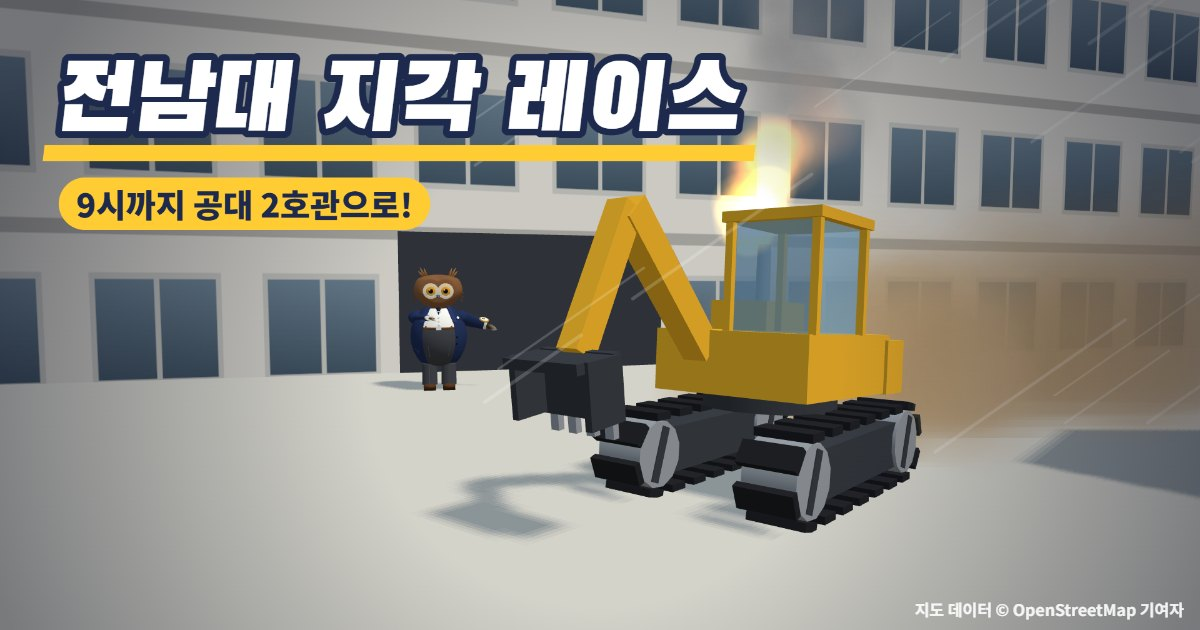
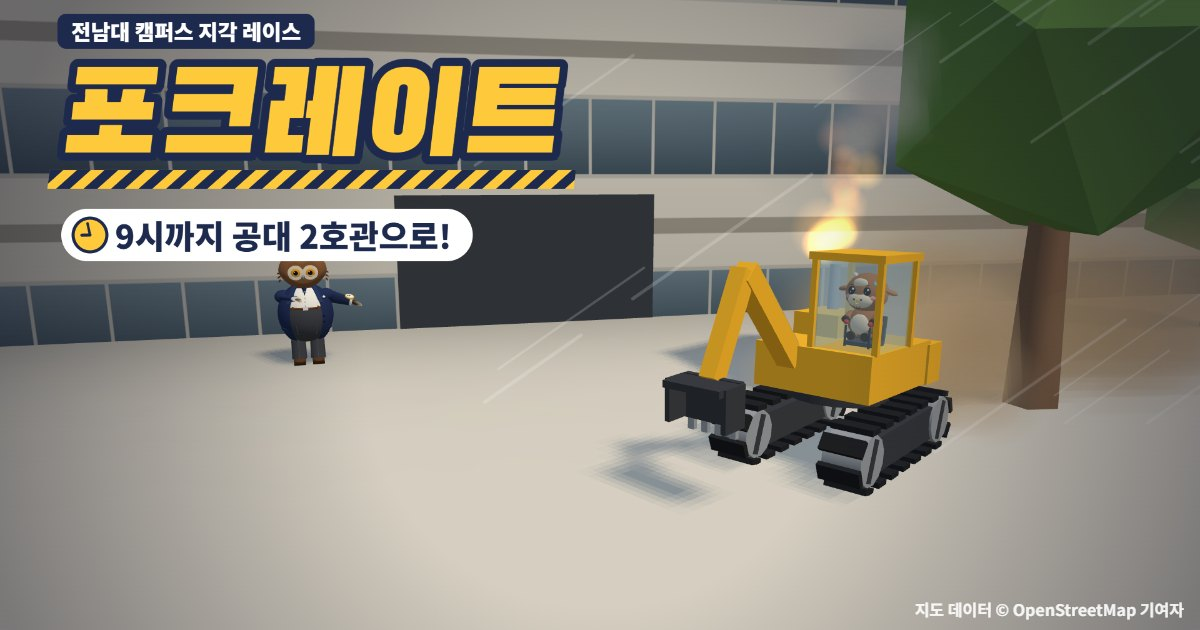
밤샘 6: 이름 포크레이트, 새 키 아트와 공유 카드

diff --git a/index.html b/index.html
@@ -3,43 +3,43 @@
 <head>
   <meta charset="utf-8">
   <meta name="viewport" content="width=device-width, initial-scale=1">
-  <title>전남대 지각 레이스</title>
+  <title>포크레이트 — 전남대 지각 레이스</title>
   <!-- 공유 카드 (메신저·SNS 미리보기). 이미지는 docs/keyart/render.html로 만든 1200×630 -->
-  <meta name="description" content="전남대 광주캠퍼스를 3D로 옮긴 브라우저 게임. 미니 굴착기로 미션을 끝내고 9시까지 공대 2호관에 도착하세요!">
+  <meta name="description" content="포크레이트(포크레인 + late): 전남대 캠퍼스를 굴착기로 달리는 지각 레이스. 미션을 끝내고 9시까지 공대 2호관으로!">
   <meta property="og:type" content="website">
-  <meta property="og:title" content="전남대 지각 레이스">
-  <meta property="og:description" content="전남대 광주캠퍼스를 3D로 옮긴 브라우저 게임. 미니 굴착기로 미션을 끝내고 9시까지 공대 2호관에 도착하세요!">
+  <meta property="og:title" content="포크레이트 — 9시까지 공대 2호관으로!">
+  <meta property="og:description" content="전남대 캠퍼스를 굴착기로 달리는 지각 레이스. 전남대 광주캠퍼스를 3D로 옮긴 브라우저 게임에서 미니 굴착기로 미션을 끝내고 9시까지 공대 2호관에 도착하세요!">
   <meta property="og:url" content="https://junyeong1810.github.io/jnu-late-race/">
   <meta property="og:image" content="https://junyeong1810.github.io/jnu-late-race/assets/img/og-image.jpg">
   <meta property="og:image:width" content="1200">
   <meta property="og:image:height" content="630">
-  <meta property="og:image:alt" content="미니 굴착기가 부스터를 켜고 돌진하고, 뒤에서 교수님이 손목을 가리키는 장면">
+  <meta property="og:image:alt" content="포크레이트: 긴장한 황소 학생이 탄 미니 굴착기가 부스터를 켜고 돌진하고, 뒤에서 교수님이 손목을 가리키는 장면">
   <meta name="twitter:card" content="summary_large_image">
-  <meta name="twitter:title" content="전남대 지각 레이스">
+  <meta name="twitter:title" content="포크레이트 — 9시까지 공대 2호관으로!">
   <meta name="twitter:image" content="https://junyeong1810.github.io/jnu-late-race/assets/img/og-image.jpg">
-  <link rel="stylesheet" href="assets/css/style.css?v=80">
+  <link rel="stylesheet" href="assets/css/style.css?v=81">
   <script type="importmap">
   {
     "imports": {
       "three": "https://cdn.jsdelivr.net/npm/three@0.160.0/build/three.module.js",
-      "./assets/js/map.js": "./assets/js/map.js?v=80",
-      "./assets/js/landscape.js": "./assets/js/landscape.js?v=80",
-      "./assets/js/terrain.js": "./assets/js/terrain.js?v=80",
-      "./assets/js/surroundings.js": "./assets/js/surroundings.js?v=80",
-      "./assets/js/roadmarks.js": "./assets/js/roadmarks.js?v=80",
-      "./assets/js/life.js": "./assets/js/life.js?v=80",
-      "./assets/js/car.js": "./assets/js/car.js?v=80",
-      "./assets/js/driver.js": "./assets/js/driver.js?v=80",
-      "./assets/js/driver-config.js": "./assets/js/driver-config.js?v=80",
-      "./assets/js/walker.js": "./assets/js/walker.js?v=80",
-      "./assets/js/camera.js": "./assets/js/camera.js?v=80",
-      "./assets/js/hud.js": "./assets/js/hud.js?v=80",
-      "./assets/js/voice.js": "./assets/js/voice.js?v=80",
-      "./assets/js/late-mode.js": "./assets/js/late-mode.js?v=80",
-      "./assets/js/missions-data.js": "./assets/js/missions-data.js?v=80",
-      "./assets/js/dialogue-data.js": "./assets/js/dialogue-data.js?v=80",
-      "./assets/js/professor.js": "./assets/js/professor.js?v=80",
-      "./assets/js/professor-config.js": "./assets/js/professor-config.js?v=80"
+      "./assets/js/map.js": "./assets/js/map.js?v=81",
+      "./assets/js/landscape.js": "./assets/js/landscape.js?v=81",
+      "./assets/js/terrain.js": "./assets/js/terrain.js?v=81",
+      "./assets/js/surroundings.js": "./assets/js/surroundings.js?v=81",
+      "./assets/js/roadmarks.js": "./assets/js/roadmarks.js?v=81",
+      "./assets/js/life.js": "./assets/js/life.js?v=81",
+      "./assets/js/car.js": "./assets/js/car.js?v=81",
+      "./assets/js/driver.js": "./assets/js/driver.js?v=81",
+      "./assets/js/driver-config.js": "./assets/js/driver-config.js?v=81",
+      "./assets/js/walker.js": "./assets/js/walker.js?v=81",
+      "./assets/js/camera.js": "./assets/js/camera.js?v=81",
+      "./assets/js/hud.js": "./assets/js/hud.js?v=81",
+      "./assets/js/voice.js": "./assets/js/voice.js?v=81",
+      "./assets/js/late-mode.js": "./assets/js/late-mode.js?v=81",
+      "./assets/js/missions-data.js": "./assets/js/missions-data.js?v=81",
+      "./assets/js/dialogue-data.js": "./assets/js/dialogue-data.js?v=81",
+      "./assets/js/professor.js": "./assets/js/professor.js?v=81",
+      "./assets/js/professor-config.js": "./assets/js/professor-config.js?v=81"
     }
   }
   </script>
@@ -47,7 +47,7 @@
 <body>
   <div id="loading">
     <div class="ld-card">
-      <div class="ld-title">전남대 지각 레이스</div>
+      <div class="ld-title">포크레이트</div>
       <div class="ld-bar"><div class="ld-fill"></div></div>
       <div class="ld-text">캠퍼스 불러오는 중…</div>
       <div class="ld-tip"></div>
@@ -148,8 +148,9 @@
     <!-- 첫 화면 -->
     <div id="title">
       <div class="title-card panel">
-        <h1>전남대 지각 레이스</h1>
-        <p class="title-sub">미니 굴착기를 타고 캠퍼스를 달려, 9시 수업에 늦지 마세요!</p>
+        <h1>포크레이트</h1>
+        <p class="title-sub">9시까지 공대 2호관으로!</p>
+        <p class="title-desc">전남대 캠퍼스를 미니 굴착기로 달리는 지각 레이스 (포크레인 + late)</p>
         <div class="title-colors" aria-label="굴착기 색"></div>
         <div class="title-buttons">
           <button id="btn-free">자유 주행</button>
@@ -166,6 +167,7 @@
     <div id="credits" class="overlay hidden">
       <div class="dialog panel credits-card">
         <h2>크레딧</h2>
+        <p><b>포크레이트</b> — 전남대 캠퍼스를 굴착기로 달리는 지각 레이스 (포크레인 + late)</p>
         <p><b>사용한 오픈소스와 데이터</b><br>
           <a href="https://threejs.org" target="_blank" rel="noopener">three.js</a> (MIT 라이선스)<br>
           지도 데이터 © <a href="https://www.openstreetmap.org/copyright" target="_blank" rel="noopener">OpenStreetMap 기여자</a> (ODbL)<br>
@@ -187,6 +189,6 @@
     <a id="attribution" href="https://www.openstreetmap.org/copyright" target="_blank" rel="noopener">지도 데이터 © OpenStreetMap 기여자</a>
   </div>
 
-  <script type="module" src="assets/js/main.js?v=80"></script>
+  <script type="module" src="assets/js/main.js?v=81"></script>
 </body>
 </html>

diff --git a/assets/css/style.css b/assets/css/style.css
@@ -582,3 +582,6 @@ body.title #settings, body.cine #settings { display: none; }
   100% { transform: translate(28px, -64px) scale(1.1); opacity: 0; }
 }
 body.title #student-bubble, body.title #student-z, body.cine #student-bubble, body.cine #student-z { display: none; }
+
+/* 첫 화면 부제 아래 한 줄 설명 */
+.title-desc { margin: -6px 0 14px; font-size: 14px; font-weight: 600; color: #6b7385; }

diff --git a/제작로그.md b/제작로그.md
@@ -130,3 +130,4 @@
 - [night-3] 정밀 지형: 국토지리정보원 수치지도 등고선·표고점·옹벽으로 만든 5m 격자(perf의 terrain.json, 차도 범위는 길이 방향 부드럽게·폭 방향 평평하게 정리된 것)와 차도 메시 5m 간격. 굴착기는 옹벽 단차에서 높이·기울기를 부드럽게 따라감. 크레딧 지형 출처 갱신. v7보다 삼각형 −17k(차도 −36k).
 - [night-4] 노랑 항목: 횡단보도·정지선·방향 화살표·과속방지턱(흰색·노란색 두 메시), 나무 다양화(넓은 활엽수·관목·원뿔·가는 침엽수, 종류별 인스턴싱, 20면체로 가볍게), 벽 아래 음영(정점 색) + 건물 둘레 접지 그림자(바닥 그림), 셔틀버스 1~2대(굴착기·걷는 황소가 다가오면 멈춤, 주차 차량 없음). ⚙ 설정에 "가벼운 모드" 스위치. v7보다 삼각형 −13.9k(낮음), 호출 +13.
 - [night-5] 항공사진 원본(국토지리정보원 8장, data/raw/ngii/항공사진/로 옮김): 정사영상과 특징점으로 맞춘 2025년 4장으로 건물 129동(4층 이상 전부 + 3층)을 확대 조각으로 하나씩 보고, 같은 날 사진 쌍의 시차로 높이를 잼. 높이 44동(온실·창고 등 37동은 1층, 강의동 4동 등), 벽 11동(벽돌 6·흰 벽·띠창 등), 유리 온실 9동, 우진각 지붕 3동, 옥상 원통 1동을 "준확실(항공사진 원본)"으로. 벽이 안 보인 82동은 그대로. 대학본부 9층(직접)은 유지하고 보고만. 크레딧 "항공사진: 국토지리정보원".
+- [night-6] 이름을 "포크레이트"(포크레인 + late)로: 첫 화면 제목·부제 "9시까지 공대 2호관으로!", 페이지 title, og·twitter 제목·설명(전남대 캠퍼스를 굴착기로 달리는 지각 레이스), 로딩 화면, README, 크레딧. 저장소·주소는 그대로. 키 아트·공유 카드(1200×630, 84KB)를 새 제목 글자와 긴장한 황소 학생으로 다시 렌더링.

diff --git a/docs/진행상황.md b/docs/진행상황.md
@@ -12,7 +12,7 @@
 | 3 | 정밀 지형 | 완료 | night-3 | 수치지도 지형 + 차도 5m, v7보다 삼각형 −17k(낮음) |
 | 4 | 노랑 항목 (도로 표시, 나무, 음영, 셔틀버스) | 완료 | night-4 | 낮음 v7보다 삼각형 −13.9k, 호출 +13. 가벼운 모드 스위치 |
 | 5 | 항공사진 원본으로 벽면·높이 보강 | 완료 | night-5 | 129동 직접 봄, 높이 44동·벽 11동 바꿈, 벽 안 보임 82동 (docs/항공사진-보강.md) |
-| 6 | 이름 변경과 키 아트 | | | |
+| 6 | 이름 변경과 키 아트 | 완료 | night-6 | "포크레이트", og-image 84KB, 키 아트 시안 4 |
 | 7 | 지각 모드 재미 | | | |
 | 8 | 놀거리 | | | |
 | 9 | 캠퍼스 산책 | | | |
@@ -57,3 +57,5 @@
 - [5] 높이는 같은 날 겹친 두 사진의 시차(지붕 − 둘레 땅). 수치지도 층수 건물로 검증(평균 절대 차 2.7m). 유리 온실은 반복 무늬로 엉터리 → 종류로 판단.
   처음엔 "조각에서 지붕선이 맞는 쪽"도 근거로 썼다가, OSM 외곽선 자체가 기울어 보이는 정사영상에서 그린 것이라 근거가 못 된다는 것을 깨닫고 그런 3동은 보류로 되돌림.
 - [5] 대학본부(직접 9층)는 바꾸지 않고 보고만(잰 높이 9.4m).
+- [6] 키 아트는 docs/keyart/render.html 시안 4(새로 더함): 굴착기가 화면 오른쪽에서 왼쪽 아래로 비스듬히, 운전석에 긴장한 황소 학생, 왼쪽에 교수님. 제목 글자는 Black Han Sans(SIL OFL) + 굴착기 노랑·남색 테두리·공사장 줄무늬 띠·시계 아이콘(직접 디자인).
+  1단계에서 교수님을 늦게 만들게 바꿔서 렌더링 페이지가 교수님이 생기기 전에 접근해 멈추던 것을 ensureProfessor()로 고침.

diff --git a/docs/성능-측정.md b/docs/성능-측정.md
@@ -150,3 +150,7 @@ night-4 부위별(장면 전체, 낮음): 나무 98,644(night-3 104,360: 넓은 
 | night-5 | 높음 | 762,735 | −29,179 | 92 | +15 | 13 | 45.4 | +7.4 | 106.0 | 14.9 |
 
 night-5는 데이터만 바뀜(건물 44동 층수, 14동 외관). 호출 +1·텍스처 +1은 새 외관 텍스처 종류(유리 온실). 낮음 로딩은 한 번 8.1초가 나왔다가 다시 재니 2.3초(앞 페이지 정리 탓으로 봄).
+| night-6 | 낮음 | 603,099 | −14,170 | 89 | +14 | 12 | 49.9 | +10.4 | 75.4 | 10.7 |
+| night-6 | 높음 | 762,735 | −29,179 | 92 | +15 | 13 | 37.8 | −0.2 | 106.0 | 14.2 |
+
+night-6은 이름·글자·이미지만 바뀌어 장면은 night-5와 같다(JS 메모리 차이는 가비지 수집 흔들림).

diff --git a/README.md b/README.md
@@ -1,4 +1,6 @@
-# 전남대 지각 레이스 (JNU Late Race)
+# 포크레이트 — 9시까지 공대 2호관으로!
+
+**포크레이트**(포크레인 + late)는 전남대 캠퍼스를 굴착기로 달리는 지각 레이스입니다. (저장소 이름·주소는 그대로 jnu-late-race)
 
 전남대학교 광주캠퍼스를 3D로 옮겨 놓고, 미니 굴착기를 타고 돌아다니는 브라우저 게임입니다.
 수업 과제 "GitHub에서 찾아본 오픈소스로 흥미로운 프로그램 만들기"로 만들었습니다.
